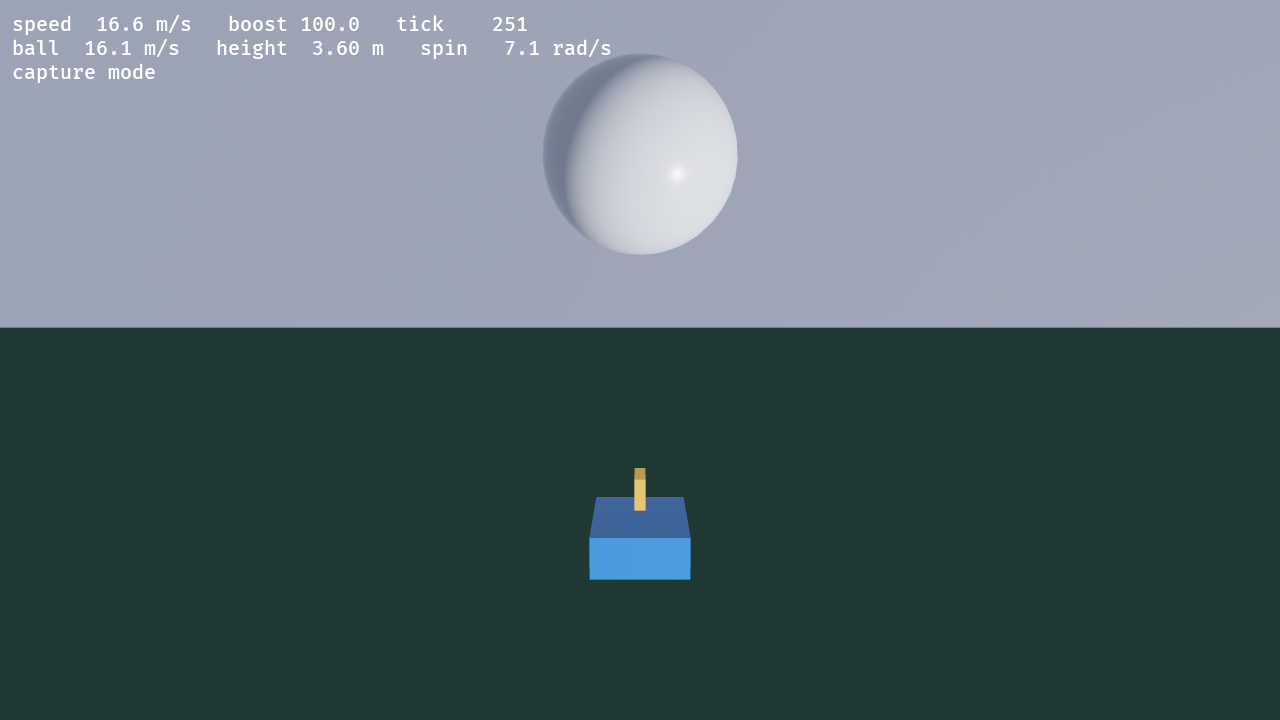
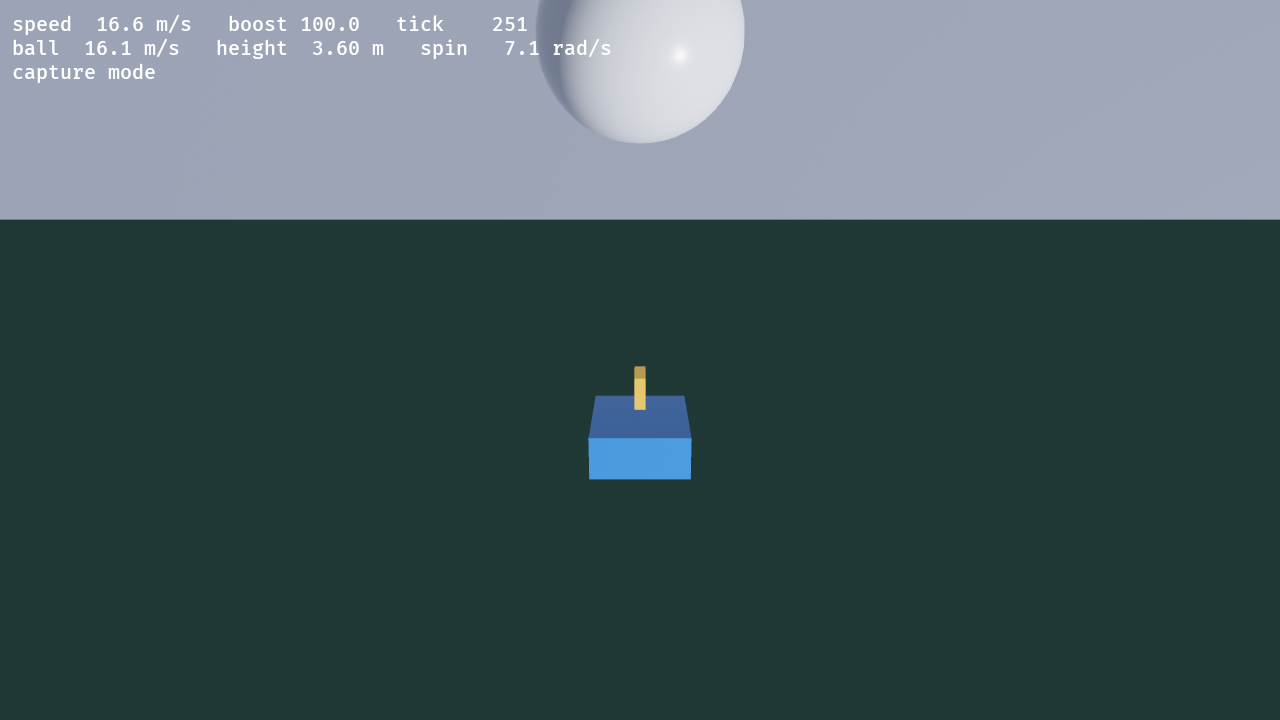
Fix the camera collapsing onto the car at walls
Two bugs, both of which only showed up near a wall.

The arena clamp was too crude. With the car backed against a wall the point
behind it is inside the wall, so clamping snapped the camera onto the car and
you ended up looking at its interior. The camera now clips a boom from the car
to the wall and sits at the farthest clear point, pulling in smoothly as a
wall approaches. When there is genuinely no room behind the car at all it
rises and steps sideways along the wall instead of clamping.

The aim point was a raw weighted average of the two positions:

    aim = car_pos * 0.65 + ball_pos * 0.35

which can land anywhere, including behind the camera. Whenever the ball was
behind the car the aim collapsed towards the camera and it stared at the
floor with the car off screen. It is now a clamped offset from the car, so it
cannot collapse:

    aim = car_pos + clamp_length_max(ball_pos - car_pos, 6.0) * lean + up * 0.6

Also makes --screenshot self-driving, so both interesting camera states are
reproducible from the command line: tick 250 is mid-drive with the ball in
front, tick 1200 is squeezed against a wall. Adds three unit tests for the
camera geometry (clamp_inside, free_fraction, and the wall-blocks-the-boom
case) so this specific regression is guarded.

Changed region(s): [[0.0, 0.0, 1.0, 0.4583], [0.4375, 0.5194, 0.5625, 0.825]]

diff --git a/rust/view/src/main.rs b/rust/view/src/main.rs
@@ -24,6 +24,19 @@ const ARENA_HALF_X: f32 = 40.0;
 const ARENA_HALF_Z: f32 = 25.0;
 const ARENA_HEIGHT: f32 = 12.0;
 
+/// The camera never gets closer to a wall than this.
+const CAMERA_WALL_MARGIN: f32 = 0.8;
+/// Preferred chase position: this far behind, and this far above, the car.
+const CAMERA_DISTANCE: f32 = 5.5;
+const CAMERA_HEIGHT: f32 = 2.6;
+/// Where the camera escapes to when a wall blocks the chase position.
+const CAMERA_SQUEEZE_HEIGHT: f32 = 5.0;
+const CAMERA_SQUEEZE_INSET: f32 = 2.5;
+/// How far the aim point may lean from the car towards the ball, and how high
+/// above the car it sits.
+const CAMERA_AIM_LEAN: f32 = 6.0;
+const CAMERA_AIM_HEIGHT: f32 = 0.6;
+
 // ---------------------------------------------------------------------------
 // Resources / components
 // ---------------------------------------------------------------------------
@@ -313,11 +326,27 @@ fn read_input(keys: &ButtonInput<KeyCode>) -> SimInput {
 fn step_simulation(keys: Res<ButtonInput<KeyCode>>, mut sim: ResMut<Sim>, mode: Res<Mode>) {
     let input = match &*mode {
         Mode::Play => read_input(&keys),
-        // Drive straight into the ball, so a capture shows the moment of
-        // impact rather than the kickoff pose.
-        Mode::Capture { .. } => SimInput::new(1.0, 0.0, false, false),
+        // Self-driving, so a capture is reproducible rather than dependent on
+        // the frame rate. See `capture_input` for the schedule.
+        Mode::Capture { .. } => capture_input(sim.0.tick),
     };
     sim.0.step(&input);
+}
+
+/// The self-driving script used by `--screenshot`, as a function of the tick.
+///
+/// Two interesting moments fall out of it: around tick 250 the car is mid-drive
+/// with the ball in front (the shot in the README), and by tick 1200 it has
+/// driven into one wall and reversed back into the other, which squeezes the
+/// camera against a wall - the case that used to stick it to the car.
+fn capture_input(tick: u64) -> SimInput {
+    if tick < 420 {
+        SimInput::new(1.0, 0.0, false, false)
+    } else if tick < 1000 {
+        SimInput::new(-1.0, 0.0, false, false)
+    } else {
+        SimInput::new(0.0, 0.0, false, false)
+    }
 }
 
 fn reset_on_key(keys: Res<ButtonInput<KeyCode>>, mut sim: ResMut<Sim>) {
@@ -355,6 +384,44 @@ fn sync_visuals(sim: Res<Sim>, mut query: Query<(&mut Transform, &Vis)>) {
     }
 }
 
+/// Keep a point inside the arena, leaving `margin` clearance from every face.
+fn clamp_inside(p: Vec3, margin: f32) -> Vec3 {
+    Vec3::new(
+        p.x.clamp(-ARENA_HALF_X + margin, ARENA_HALF_X - margin),
+        p.y.clamp(margin, ARENA_HEIGHT - margin),
+        p.z.clamp(-ARENA_HALF_Z + margin, ARENA_HALF_Z - margin),
+    )
+}
+
+/// How much of the segment `from -> to` stays inside the arena, as a fraction.
+///
+/// Assumes `from` is already inside, in which case the arena being a box means
+/// this is just clipping against three axis-aligned slabs. The result is where
+/// a camera on a boom from `from` towards `to` would hit a wall.
+fn free_fraction(from: Vec3, to: Vec3, margin: f32) -> f32 {
+    let min = [-ARENA_HALF_X + margin, margin, -ARENA_HALF_Z + margin];
+    let max = [
+        ARENA_HALF_X - margin,
+        ARENA_HEIGHT - margin,
+        ARENA_HALF_Z - margin,
+    ];
+    let p = from.to_array();
+    let d = (to - from).to_array();
+
+    let mut t = 1.0_f32;
+    for axis in 0..3 {
+        if d[axis].abs() > 1e-6 {
+            let limit = if d[axis] > 0.0 {
+                (max[axis] - p[axis]) / d[axis]
+            } else {
+                (min[axis] - p[axis]) / d[axis]
+            };
+            t = t.min(limit);
+        }
+    }
+    t.clamp(0.0, 1.0)
+}
+
 fn chase_camera(sim: Res<Sim>, time: Res<Time>, mut query: Query<&mut Transform, With<ChaseCam>>) {
     let car = sim.0.car.pos;
     let heading = sim.0.car.heading;
@@ -364,28 +431,73 @@ fn chase_camera(sim: Res<Sim>, time: Res<Time>, mut query: Query<&mut Transform,
     let car_pos = Vec3::new(car.x as f32, car.y as f32, car.z as f32);
     let ball_pos = Vec3::new(ball.x as f32, ball.y as f32, ball.z as f32);
 
-    // Behind and above the car, but the aim point leans toward the ball so you
-    // can see what you are about to hit.
-    let desired = car_pos - forward * 5.5 + Vec3::Y * 2.6;
-    let aim = car_pos * 0.65 + ball_pos * 0.35 + Vec3::Y * 0.35;
+    // Pull the camera in along the line of sight rather than clamping it to
+    // the wall plane. A car backed against a wall has *no* room behind it, and
+    // clamping put the camera on top of the car, which is what made it feel
+    // stuck. Clipping a boom from the car finds the farthest position that is
+    // actually clear.
+    let pivot = clamp_inside(car_pos + Vec3::Y * 1.2, CAMERA_WALL_MARGIN);
+    let wanted = car_pos - forward * CAMERA_DISTANCE + Vec3::Y * CAMERA_HEIGHT;
+    let reach = free_fraction(pivot, wanted, CAMERA_WALL_MARGIN);
+    let mut desired = pivot.lerp(wanted, reach);
 
-    // The arena is a box, so keeping the camera inside it is just a clamp.
-    // Without this the camera sails through a wall and you end up looking at
-    // the underside of the floor.
-    const MARGIN: f32 = 0.6;
-    let inside = |p: Vec3| {
-        Vec3::new(
-            p.x.clamp(-ARENA_HALF_X + MARGIN, ARENA_HALF_X - MARGIN),
-            p.y.clamp(0.6, ARENA_HEIGHT - MARGIN),
-            p.z.clamp(-ARENA_HALF_Z + MARGIN, ARENA_HALF_Z - MARGIN),
-        )
-    };
-
-    let weight = 1.0 - (-7.0 * time.delta_secs()).exp();
-    for mut transform in &mut query {
-        transform.translation = inside(transform.translation.lerp(inside(desired), weight));
-        transform.look_at(aim, Vec3::Y);
+    let squeeze = 1.0 - reach;
+    if squeeze > 0.001 {
+        // No room behind the car, so rise and step *sideways* along the wall.
+        // Sideways rather than inwards, because a car backed against a wall is
+        // usually facing the middle — stepping that way puts the car behind the
+        // camera. Sideways rather than straight up because `look_at` then has
+        // no usable up vector.
+        let side = Vec3::new(forward.z, 0.0, -forward.x);
+        let step = if wall_clearance(car_pos + side * CAMERA_SQUEEZE_INSET)
+            >= wall_clearance(car_pos - side * CAMERA_SQUEEZE_INSET)
+        {
+            side
+        } else {
+            -side
+        };
+        let escape = car_pos + Vec3::Y * CAMERA_SQUEEZE_HEIGHT + step * CAMERA_SQUEEZE_INSET;
+        desired = desired.lerp(escape, squeeze);
     }
+
+    // Both the current position and the target are inside a convex box, so the
+    // interpolation can never leave the arena. The clamp is belt and braces.
+    let desired = clamp_inside(desired, CAMERA_WALL_MARGIN);
+
+    // Lean the aim towards the ball normally, but square up on the car when the
+    // camera has been forced overhead.
+    //
+    // This is a clamped offset from the car, not a weighted average of the two
+    // positions. Blending the raw positions lets the aim point drift behind the
+    // camera whenever the ball is, and the camera then stares at the floor with
+    // the car somewhere off screen.
+    let lean_factor = 0.35 * (1.0 - squeeze);
+    let lean = (ball_pos - car_pos)
+        .with_y(0.0)
+        .clamp_length_max(CAMERA_AIM_LEAN)
+        * lean_factor;
+    let aim = car_pos + lean + Vec3::Y * CAMERA_AIM_HEIGHT;
+
+    let weight = 1.0 - (-8.0 * time.delta_secs()).exp();
+    for mut transform in &mut query {
+        transform.translation = transform.translation.lerp(desired, weight);
+        // Directly overhead, world up is parallel to the view direction and
+        // `look_at` has no valid basis. The car's forward is a sane stand-in.
+        let to_aim = aim - transform.translation;
+        let up = if to_aim.with_y(0.0).length() >= 0.5 {
+            Vec3::Y
+        } else if forward.length_squared() > 0.5 {
+            forward
+        } else {
+            Vec3::X
+        };
+        transform.look_at(aim, up);
+    }
+}
+
+/// Shortest distance from a point to any of the four walls.
+fn wall_clearance(p: Vec3) -> f32 {
+    (ARENA_HALF_X - p.x.abs()).min(ARENA_HALF_Z - p.z.abs())
 }
 
 fn update_hud(sim: Res<Sim>, hud: Single<Entity, With<HudText>>, mut writer: TextUiWriter) {
@@ -442,5 +554,42 @@ fn screenshot_driver(
         if *frames_since_capture > 90 {
             exit.write(AppExit::Success);
         }
+    }
+}
+
+#[cfg(test)]
+mod tests {
+    use super::*;
+
+    #[test]
+    fn clamp_inside_leaves_the_wall_margin() {
+        let p = clamp_inside(Vec3::new(100.0, -5.0, -100.0), CAMERA_WALL_MARGIN);
+        assert!((p.x - (ARENA_HALF_X - CAMERA_WALL_MARGIN)).abs() < 1e-6);
+        assert!((p.y - CAMERA_WALL_MARGIN).abs() < 1e-6);
+        assert!((p.z - (-ARENA_HALF_Z + CAMERA_WALL_MARGIN)).abs() < 1e-6);
+    }
+
+    #[test]
+    fn open_ice_gives_the_camera_its_full_boom() {
+        let pivot = clamp_inside(Vec3::new(0.0, 1.2, 0.0), CAMERA_WALL_MARGIN);
+        let wanted = Vec3::new(0.0, 2.6, -CAMERA_DISTANCE);
+        assert!((free_fraction(pivot, wanted, CAMERA_WALL_MARGIN) - 1.0).abs() < 1e-6);
+    }
+
+    #[test]
+    fn a_wall_behind_the_car_blocks_the_boom() {
+        // Backed against the -Z wall facing away, so the preferred position is
+        // outside the arena. This is the case that used to pin the camera to
+        // the wall (and therefore onto the car itself).
+        let car = Vec3::new(0.0, 0.18, -(ARENA_HALF_Z - 0.6));
+        let pivot = clamp_inside(car + Vec3::Y * 1.2, CAMERA_WALL_MARGIN);
+        let wanted = car - Vec3::new(0.0, 0.0, 1.0) * CAMERA_DISTANCE + Vec3::Y * CAMERA_HEIGHT;
+
+        let reach = free_fraction(pivot, wanted, CAMERA_WALL_MARGIN);
+        assert!(reach < 0.1, "boom should be blocked, got {reach}");
+
+        // And whatever it does, it must stay inside the arena.
+        let blocked = clamp_inside(pivot.lerp(wanted, reach), CAMERA_WALL_MARGIN);
+        assert!(blocked.z >= -ARENA_HALF_Z + CAMERA_WALL_MARGIN - 1e-6);
     }
 }
